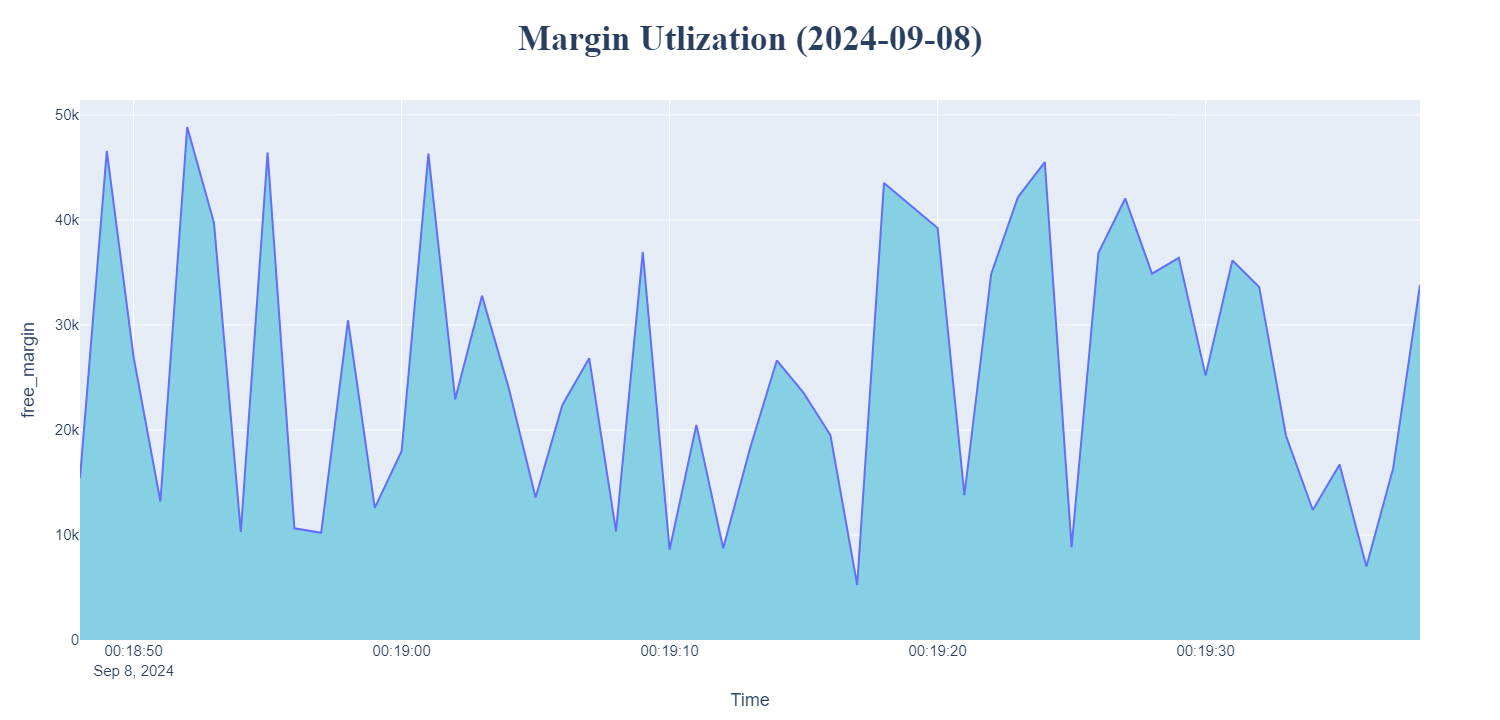
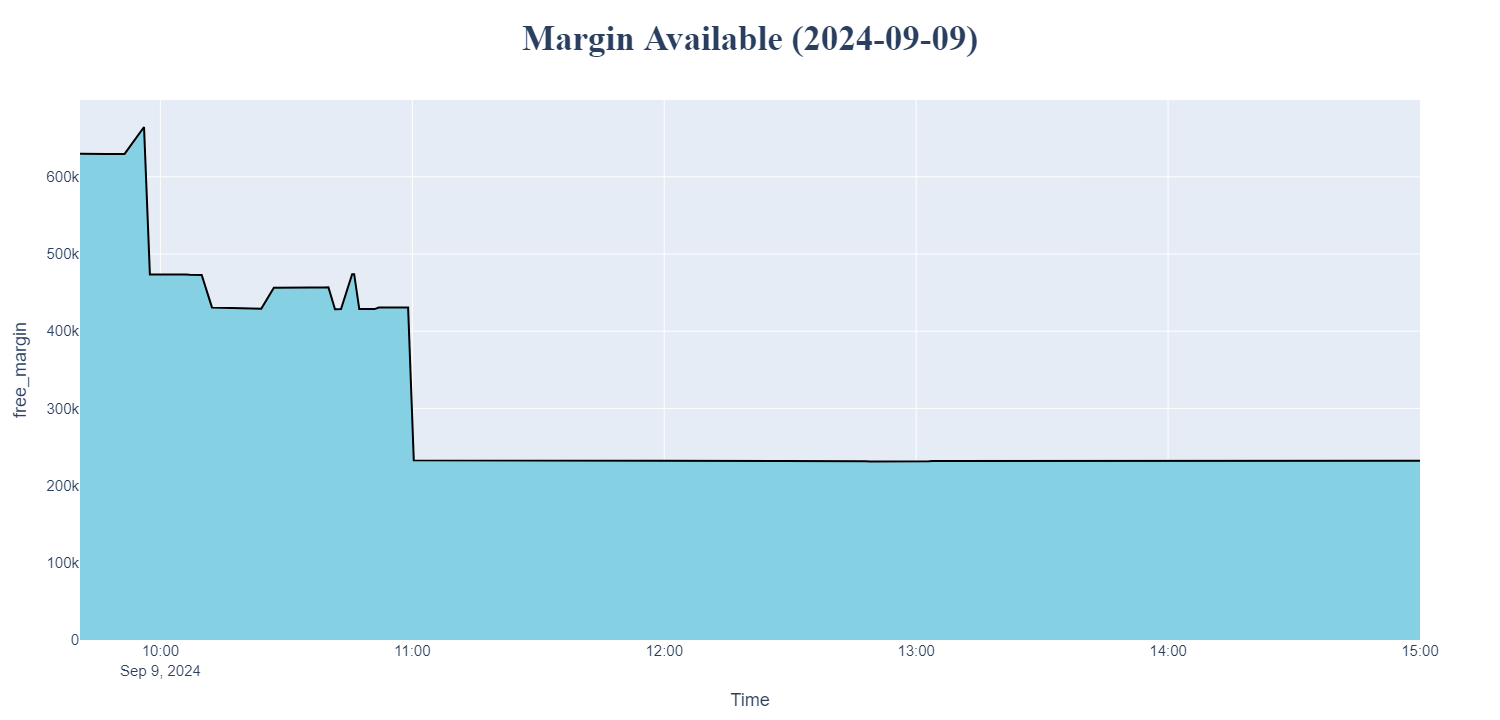
Plot Heading rename

diff --git a/server/order_management.py b/server/order_management.py
@@ -466,7 +466,7 @@ class Order_management :
         df = pd.DataFrame(db)[['Time',F.pl,F.free_margin]]
         df['Time'] = pd.to_datetime(df['Time'],format='%Y-%m-%d %H:%M:%S')
         df.set_index('Time',inplace=True)
-        heading_dict = {F.pl : "PL Recording",F.free_margin : "Margin Utlization"}
+        heading_dict = {F.pl : "PL Recording",F.free_margin : "Available Margin"}
         color_dict = {F.pl : '#ace385',F.free_margin : "#85d0e3"}
         for col in df.columns : 
             fig = px.area(df, x = df.index, y= col,title=f"<b>{heading_dict[col]} ({self.date})</b>",width = 1500,height = 720,labels = {"Time": "Time","value": col})
